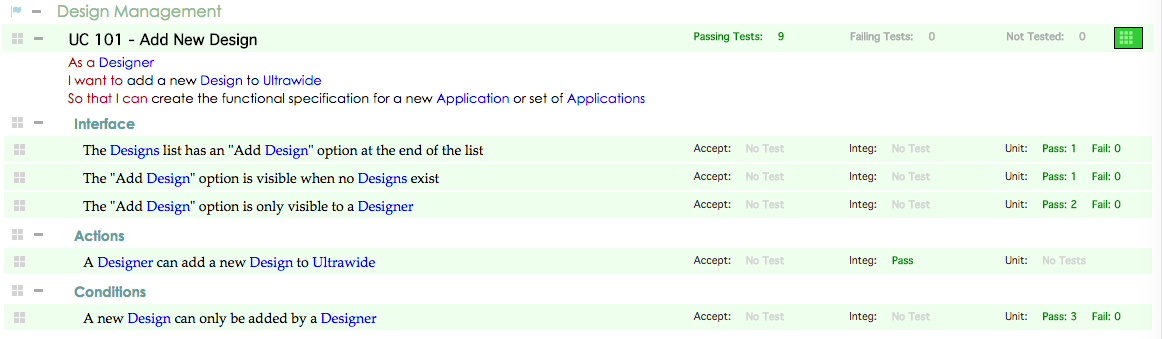
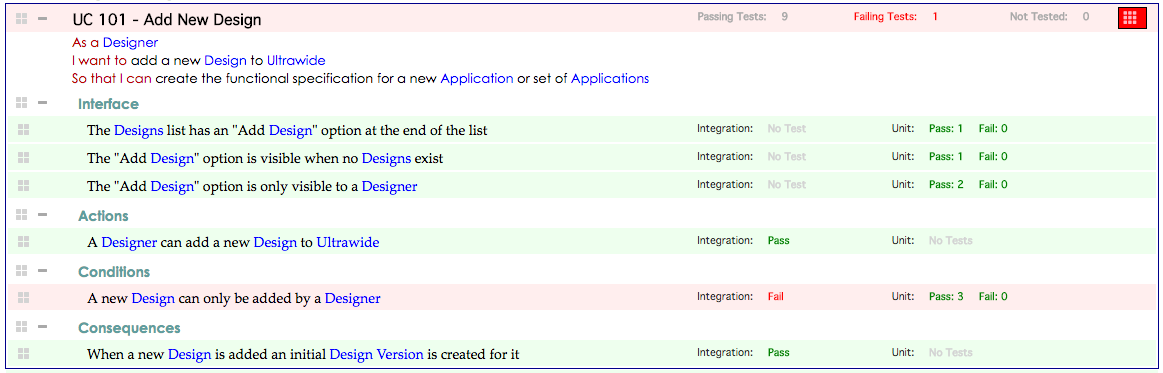
Show test file uploads and new and old

diff --git a/imports/ui/components/configure/TestOutputFile.jsx b/imports/ui/components/configure/TestOutputFile.jsx
@@ -12,6 +12,7 @@ import ClientTestOutputLocationServices         from '../../../apiClient/apiClie
 import { TestLocationFileTypes, TestRunners, TestLocationFileStatus}    from '../../../constants/constants.js';
 import { createSelectionList }                  from '../../../common/utils.js';
 import TextLookups                              from '../../../common/lookups.js';
+import { getDateTimeString} from '../../../common/utils.js';
 // Bootstrap
 import {Button} from 'react-bootstrap';
 import {Form, FormGroup, FormControl, Grid, Row, Col, ControlLabel} from 'react-bootstrap';
@@ -94,7 +95,21 @@ export class TestOutputFile extends Component {
     render() {
         const {locationFile, userRole, currentLocationId} = this.props;
 
-        const fileClass = (locationFile.fileStatus === TestLocationFileStatus.FILE_UPLOADED ? ' file-uploaded' : ' file-missing');
+        let fileClass = (locationFile.fileStatus === TestLocationFileStatus.FILE_UPLOADED ? ' file-uploaded' : ' file-missing');
+
+        const dateString = getDateTimeString(new Date(locationFile.lastUpdated));
+
+        // Check for uploaded files being old
+        if(locationFile.fileStatus === TestLocationFileStatus.FILE_UPLOADED){
+            const now = new Date();
+
+            const timeDiff = Math.abs(now.getTime() - new Date(locationFile.lastUpdated).getTime());
+            const diffDays = Math.ceil(timeDiff / (1000 * 3600 * 24));
+
+            if(diffDays > 1){
+                fileClass = ' file-old';
+            }
+        }
 
         const viewInstance = (
             <div className={fileClass}>
@@ -121,7 +136,7 @@ export class TestOutputFile extends Component {
                             {TextLookups.fileStatus(locationFile.fileStatus)}
                         </Col>
                         <Col sm={7}>
-                            {locationFile.lastUpdated}
+                            {dateString}
                         </Col>
                     </Row>
                 </Grid>

diff --git a/imports/ui/components/summary/TestSummary.jsx b/imports/ui/components/summary/TestSummary.jsx
@@ -69,15 +69,15 @@ class TestSummary extends Component {
             return(
                 <Grid className="close-grid">
                     <Row>
-                        <Col md={4} className="close-col">
-                            <span className="test-summary-text">Accept:</span>
-                            <span className={accResultClass}>{TextLookups.mashTestStatus(testSummaryData.accMashTestStatus)}</span>
-                        </Col>
-                        <Col md={4} className="close-col">
-                            <span className="test-summary-text">Integ:</span>
+                        {/*<Col md={4} className="close-col">*/}
+                            {/*<span className="test-summary-text">Accept:</span>*/}
+                            {/*<span className={accResultClass}>{TextLookups.mashTestStatus(testSummaryData.accMashTestStatus)}</span>*/}
+                        {/*</Col>*/}
+                        <Col md={5} className="close-col">
+                            <span className="test-summary-text">Integration:</span>
                             <span className={intResultClass}>{TextLookups.mashTestStatus(testSummaryData.intMashTestStatus)}</span>
                         </Col>
-                        <Col md={4} className="close-col">
+                        <Col md={7} className="close-col">
                             <span className="test-summary-text">Unit:</span>
                             {unitTestResult}
                         </Col>

diff --git a/imports/apiClient/apiClientContainerServices.js b/imports/apiClient/apiClientContainerServices.js
@@ -131,8 +131,6 @@ class ClientContainerServices{
 
                 // User specific data
                 const dvmHandle = Meteor.subscribe('userDesignVersionMashScenarios', userContext.userId);
-                const mmHandle = Meteor.subscribe('userUnitTestMashData', userContext.userId);
-                const arHandle = Meteor.subscribe('userAccTestResults', userContext.userId);
                 const irHandle = Meteor.subscribe('userIntegrationTestResults', userContext.userId);
                 const mrHandle = Meteor.subscribe('userUnitTestResults', userContext.userId);
                 const stHandle = Meteor.subscribe('userMashScenarioTests', userContext.userId);
@@ -146,8 +144,8 @@ class ClientContainerServices{
                     let loading = (
                         !dusHandle.ready() ||
                         !dvcHandle.ready() || !ducHandle.ready() || !fbHandle.ready() ||
-                        !ssHandle.ready() || !ddHandle.ready() || !dvmHandle.ready() || !mmHandle.ready() ||
-                        !arHandle.ready() || !irHandle.ready() || !mrHandle.ready() || !stHandle.ready() || !tsHandle.ready() ||
+                        !ssHandle.ready() || !ddHandle.ready() || !dvmHandle.ready() ||
+                        !irHandle.ready() || !mrHandle.ready() || !stHandle.ready() || !tsHandle.ready() ||
                         !dsHandle.ready() || !wcHandle.ready() || !psHandle.ready()
                     );
 

diff --git a/imports/service_modules/dev/test_integration_service_modules.js b/imports/service_modules/dev/test_integration_service_modules.js
@@ -197,10 +197,10 @@ class TestIntegrationModules{
             let intTestCount = 0;
             let intTestPasses = 0;
             let intTestFails = 0;
-            let scenarioUnitTestStatus = MashTestStatus.MASH_NOT_IMPLEMENTED;
-            let scenarioIntTestStatus = MashTestStatus.MASH_NOT_IMPLEMENTED;
-            let scenarioUnitMashStatus = MashStatus.MASH_NOT_IMPLEMENTED;
-            let scenarioIntMashStatus = MashStatus.MASH_NOT_IMPLEMENTED;
+            let scenarioUnitTestStatus = MashTestStatus.MASH_NOT_LINKED;
+            let scenarioIntTestStatus = MashTestStatus.MASH_NOT_LINKED;
+            let scenarioUnitMashStatus = MashStatus.MASH_NOT_LINKED;
+            let scenarioIntMashStatus = MashStatus.MASH_NOT_LINKED;
 
             unitTests.forEach((unitTest) => {
 

diff --git a/imports/servicers/configure/test_output_location_services.js b/imports/servicers/configure/test_output_location_services.js
@@ -470,7 +470,7 @@ class TestOutputLocationServices {
             // Get the file details for the last modified date
             const stats = fs.statSync(location.locationFullPath + file);
             const modifiedDate = new Date(stats.mtime);
-            const dateString = getDateTimeString(modifiedDate);
+
 
             TestOutputLocationFiles.update(
                 {
@@ -480,7 +480,7 @@ class TestOutputLocationServices {
                 {
                     $set: {
                         fileStatus:     TestLocationFileStatus.FILE_UPLOADED,
-                        lastUpdated:    dateString
+                        lastUpdated:    modifiedDate
                     }
                 }
             );

diff --git a/imports/collections/configure/test_output_location_files.js b/imports/collections/configure/test_output_location_files.js
@@ -13,7 +13,7 @@ let Schema = new SimpleSchema({
     fileName:               {type: String, defaultValue: 'NONE'},                   // Name of actual file
     allFilesOfType:         {type: String, defaultValue: 'NONE'},                   // Alternative to a name - *.xxx
     fileStatus:             {type: String, defaultValue: TestLocationFileStatus.FILE_NOT_UPLOADED},                   // Present or not present on the server
-    lastUpdated:            {type: String, optional: true},                         // Last modified date for tests
+    lastUpdated:            {type: Date, optional: true},                           // Last modified date for tests
 });
 
 TestOutputLocationFiles.attachSchema(Schema);

diff --git a/client/main.css b/client/main.css
@@ -1003,6 +1003,14 @@ input {
     background-color: aquamarine;
 }
 
+.file-old{
+    margin: 10px;
+    padding: 10px;
+    border: 1px solid darkgreen;
+    border-radius: 4px;
+    background-color: darkseagreen;
+}
+
 .file-missing{
     margin: 10px;
     padding: 10px;

diff --git a/README.md b/README.md
@@ -267,9 +267,15 @@ describe('AddUser', function(){`
 }); 
 ```
 
-In both cases, Ultrawide, once supplied with the output of these tests, will link them to the appropriate Scenario in the Design so the first will have one integration test and the second 3 unit tests.  There is nothing to stop you having both acceptance tests and unit tests for a Scenario.  There is no limit to the number of unit tests per Scenario and they can be in different places if required.  But there can be only one integration test per Scenario.
+In both cases, Ultrawide, once supplied with the output of these tests, will link them to the appropriate Scenario in the Design so the first will have one integration test and the second 3 unit tests.  There is nothing to stop you having both acceptance tests and unit tests for a Scenario.  There is no limit to the number of unit tests per Scenario and they can be in different places if required.
 
 Once the tests are run and the data uploaded to Ultrawide the Unit / Integration test panes and the test summary will show the results against the Design.  And the work progress summary will start counting passing and failing tests.
+
+It is possible to have more than one test for an Integration test Scenario.  If you tag a test group with the Scenario name then any tests inside that group will appear as listed against the Scenario in Ultrawide.  Otherwise just the Scenario is shown with the test status:
+
+![Integration Tests](./images/IntegrationTests.png?raw=true)
+
+Full details of test errors can be displayed by clicking on the relevant test.
 
 ### Test Outputs ###
 
@@ -299,6 +305,7 @@ For each location a set of files can be defined.  Here you set:
 In the My Test Locations tab you can see all locations available to you.  You can choose from these where you want your instance of Ultrawide to get Integration and Unit test results.  It will then pick up results from any files defined for those locations.  Each user has their own test data so it is possible for different users to view different test outputs against the same design.
 
 #### Uploading Test Data ####
+
 When you have run tests on, say, your build server and output the results to a file, that file needs to be uploaded to the Ultrawide server.  You can do this manually if the build server is a local machine by going to the test location in Ultrawide and uploading the file to it.  When you do this the defined location file will have a status of uploaded and the upload date/time.  For a more formal set up the best option is to use the REST API to upload the file.  See the API section for more details.
 
 Once new test data has been uploaded to Ultrawide, refreshing the test data in the GUI (Refresh menu) will update the results displayed against the Design.
@@ -309,7 +316,6 @@ A Test Summary can be overlaid on the Design in many Ultrawide views.  The allow
 This gives an at a glance view of the overall health and test coverage of the application and allows rapid pinpointing of the problem areas.
 
 Example Test Summary for one Feature:
-
 
  ![Test Summary](./images/TestSummary.png?raw=true)
 
